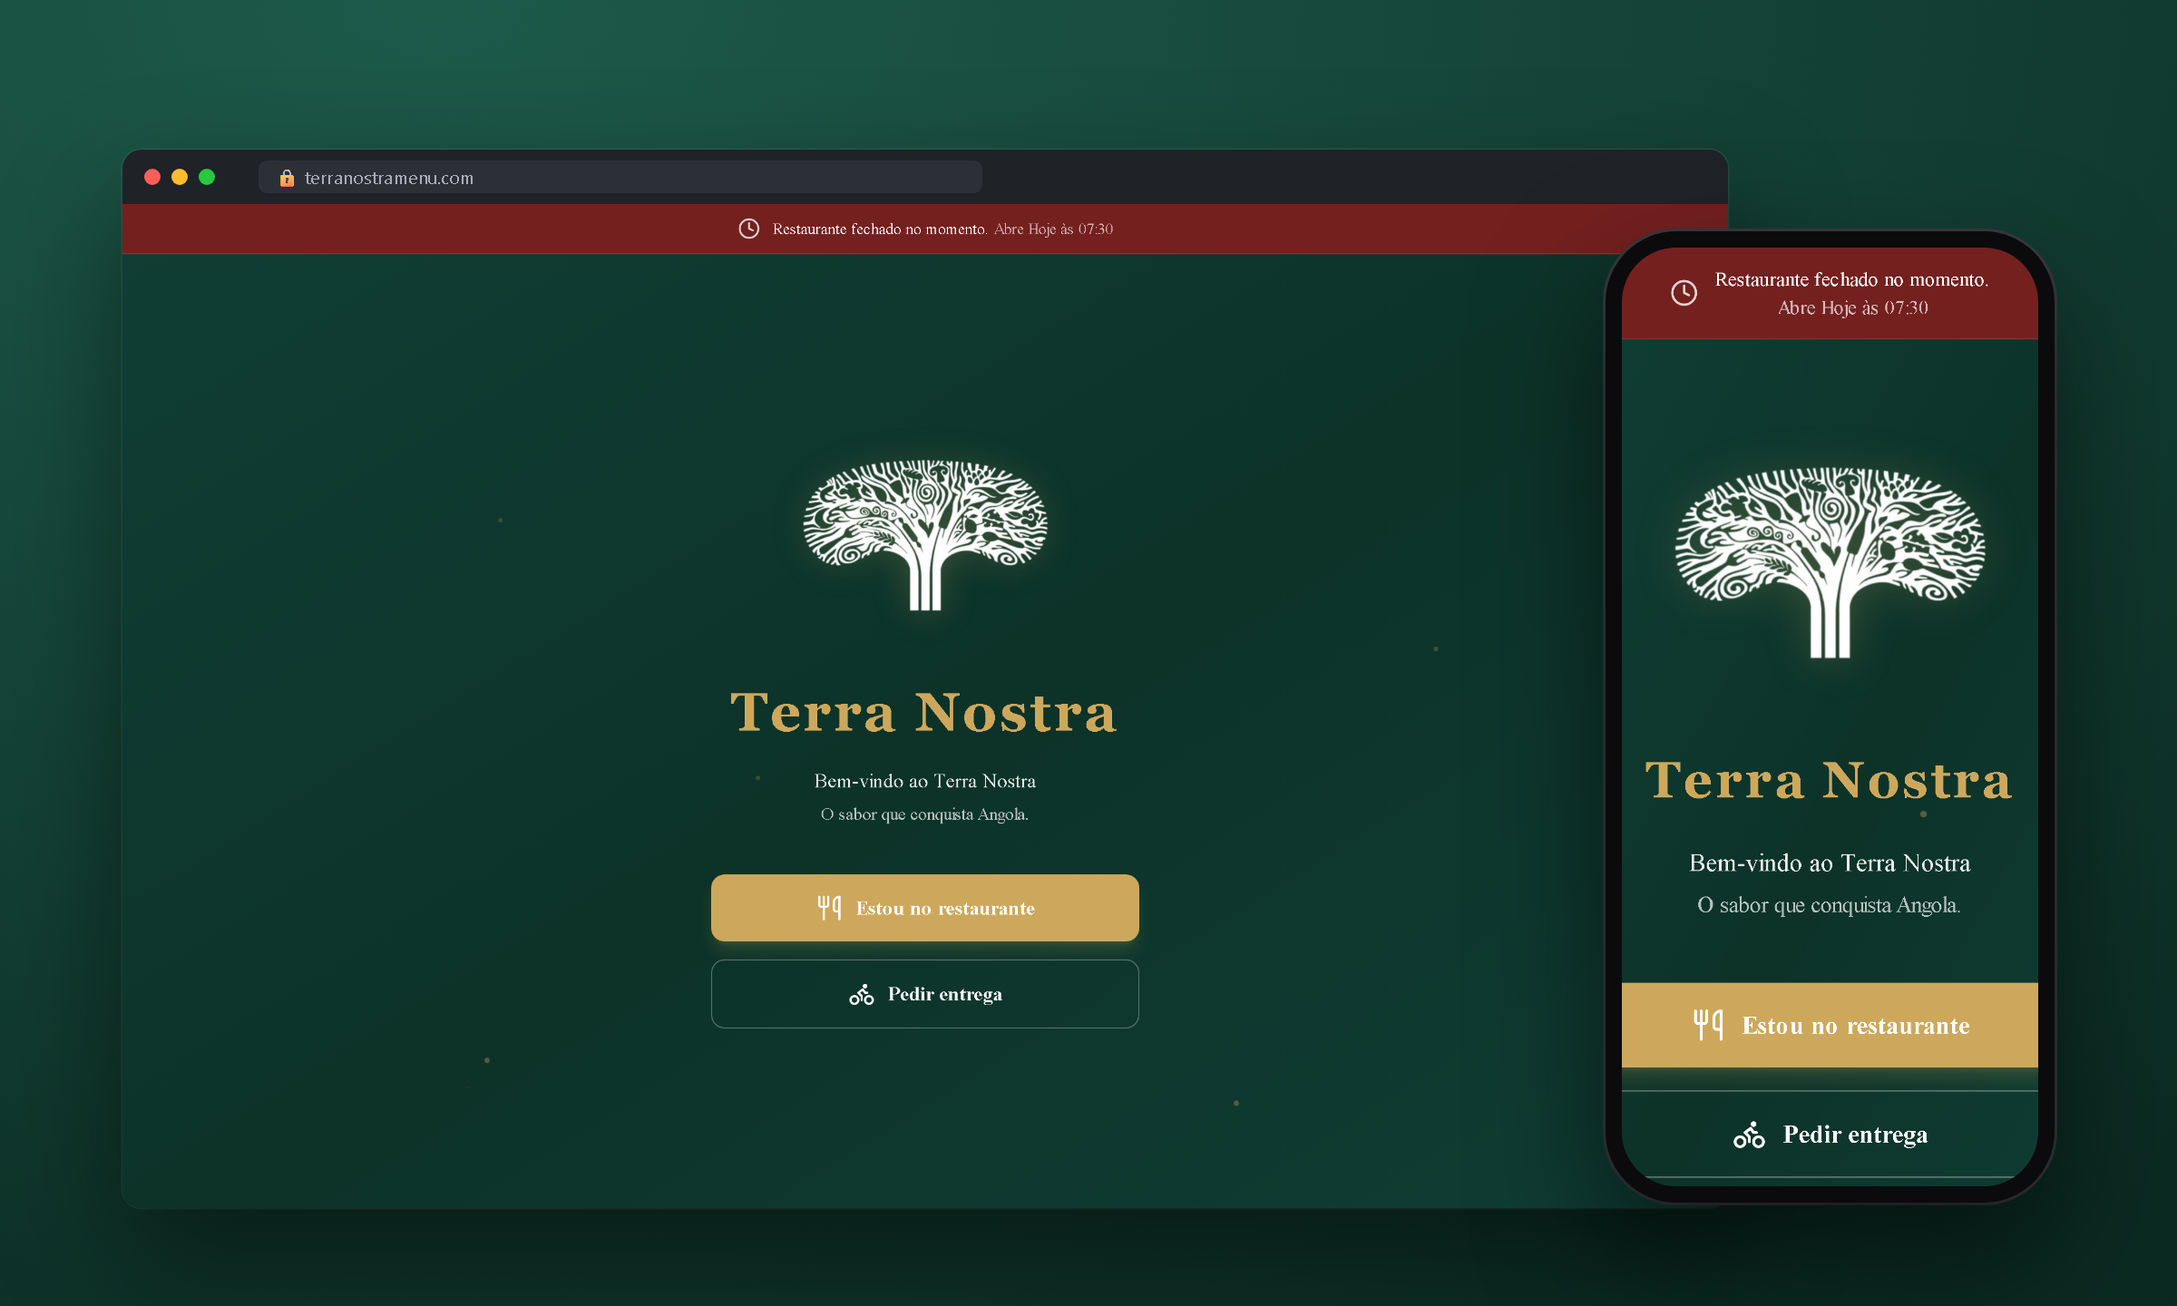
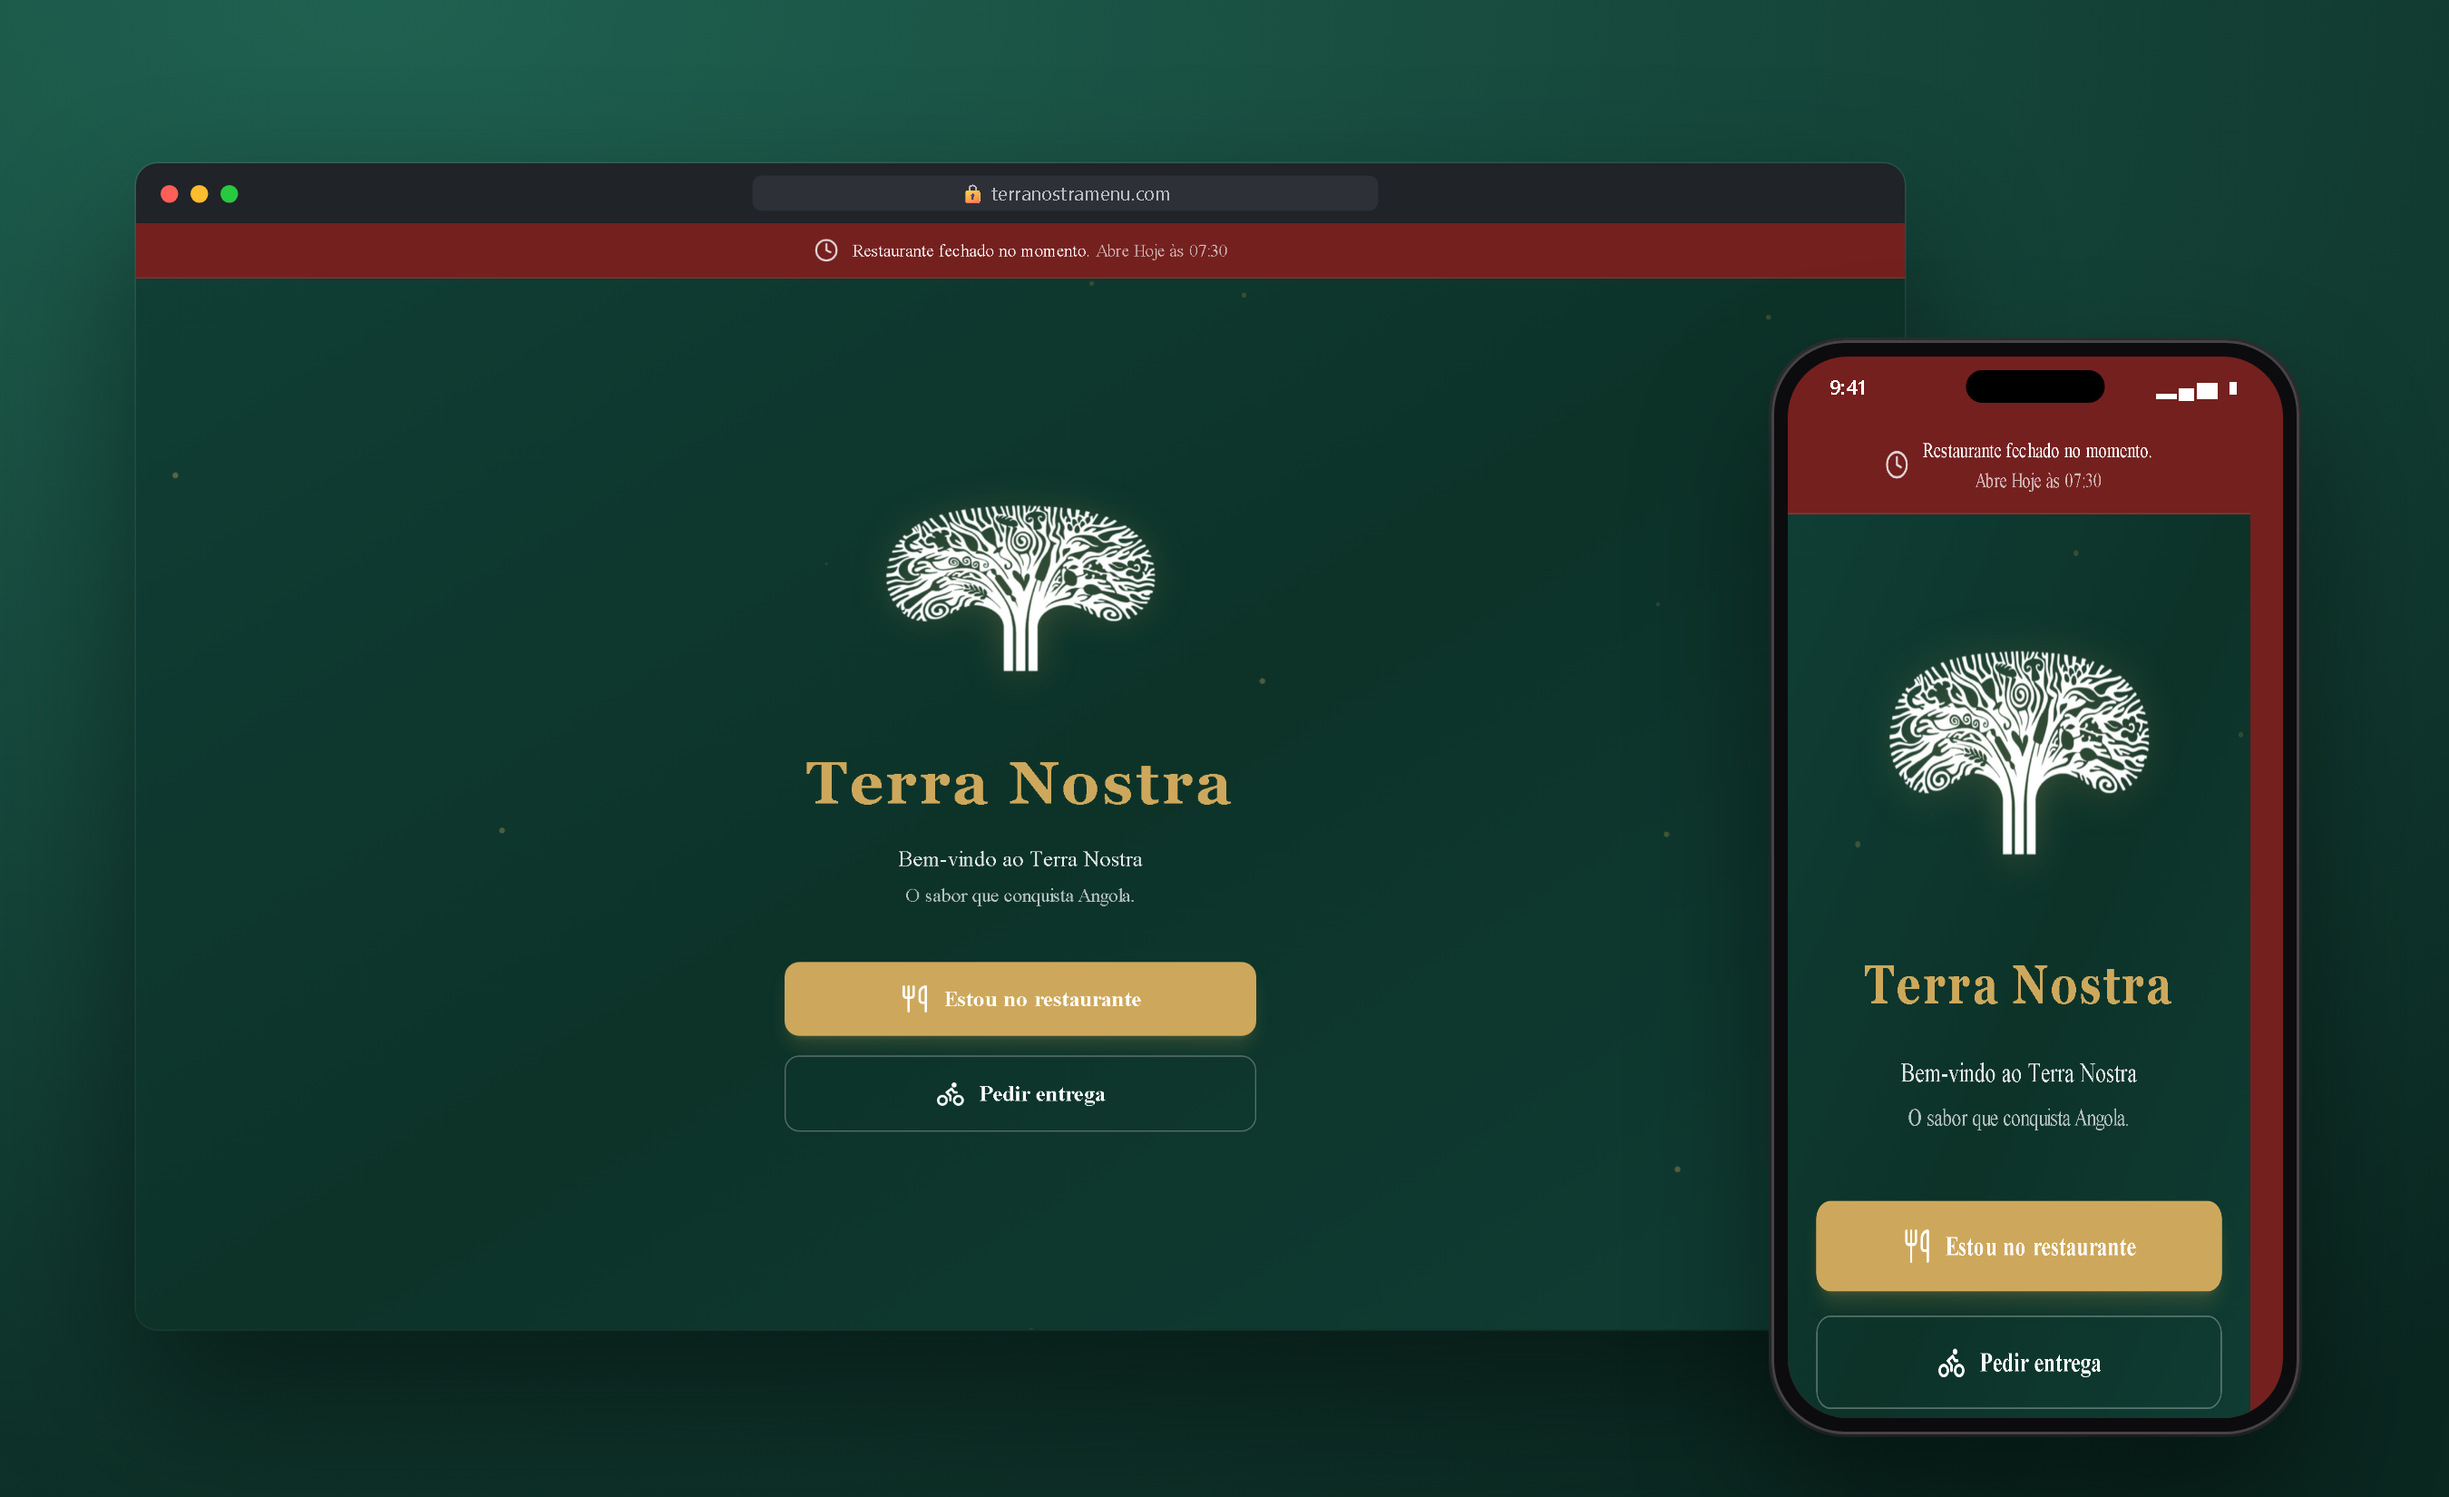
Professional screenshots: device mockups, three mobile screens, desktop

Changed region(s): [[0.0625, 0.0938, 0.9688, 0.9688], [0.3125, 0.5, 0.5312, 0.7812], [0.3438, 0.3125, 0.5, 0.4688]]

diff --git a/README.md b/README.md
@@ -15,14 +15,16 @@ Digital ordering platform for Terra Nostra, a restaurant in Luanda, Angola.
 - **Two ordering flows:** QR code ordering at the table, and delivery.
 - **Real-time kitchen:** orders reach the kitchen the moment they are placed.
 - **Owner dashboard:** sales and revenue analytics.
-- **Opening hours aware:** the app tells customers when the restaurant is closed and when it opens.
+- **Opening hours aware:** tells customers when the restaurant is closed and when it opens.
 - **Installable web app (PWA).**
 
-## Screenshots
+## Mobile
 
-| Desktop | Mobile | Menu |
-|---|---|---|
-| <img src="screenshots/desktop.png" width="520"> | <img src="screenshots/mobile.png" width="200"> | <img src="screenshots/mobile-menu.png" width="200"> |
+<img src="screenshots/mobile.png" alt="Terra Nostra · Ordering Platform mobile screens" width="100%">
+
+## Desktop
+
+<img src="screenshots/desktop.png" alt="Terra Nostra · Ordering Platform desktop" width="100%">
 
 ## Stack
 
@@ -38,4 +40,8 @@ The source code is private because it belongs to the client. I am happy to walk 
 
 ---
 
-Built by **[Erick Rodrigues](https://github.com/Erickrodrigues05)**, Full-Stack Developer · erickrodrigues781@gmail.com
+<div align="center">
+
+Built by **[Erick Rodrigues](https://github.com/Erickrodrigues05)**, Full-Stack Developer · [erickrodrigues781@gmail.com](mailto:erickrodrigues781@gmail.com)
+
+</div>
